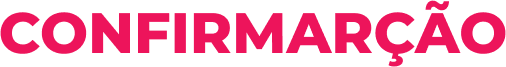
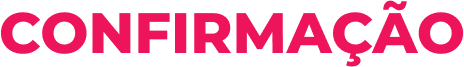
Atualizacao Tela de Confirmacao

diff --git a/project/interface.py b/project/interface.py
@@ -746,12 +746,12 @@ def telaLogarUsuario():
 
     # Inputs numéricos
     canvas1.create_window(120, 300, window=entry)
-    canvas1.create_window(323, 315, window=entry2)
-    canvas1.create_window(323, 268, window=entry3)
-    canvas1.create_window(525, 165, window=entry4)
-    canvas1.create_window(525, 200, window=entry5)
-    canvas1.create_window(525, 235, window=entry6)
-    canvas1.create_window(525, 300, window=entry7)
+    canvas1.create_window(323, 270, window=entry2)
+    canvas1.create_window(323, 330, window=entry3)
+    canvas1.create_window(525, 223, window=entry4)
+    canvas1.create_window(525, 254, window=entry5)
+    canvas1.create_window(525, 285, window=entry6)
+    canvas1.create_window(525, 340, window=entry7)
 
     # Botões de aumentar e diminuir o valor (Lab)
     increase_button = customtkinter.CTkButton(janelaLogarUsuario, text="▲", width=18, height=28, fg_color=cor_fundo,
@@ -772,14 +772,14 @@ def telaLogarUsuario():
     increase_button_machine = customtkinter.CTkButton(janelaLogarUsuario, text="▲", width=18, height=28, fg_color=cor_fundo,
                                                       hover_color=cor_fundo_escuro, border_color=cor_input_numerico,
                                                       border_width=-100)
-    canvas1.create_window(388, 200, window=increase_button_machine)
+    canvas1.create_window(370, 270, window=increase_button_machine)
     increase_button_machine.bind("<ButtonPress-1>", lambda event: start_increment(event, entry2))
     increase_button_machine.bind("<ButtonRelease-1>", stop_increment)
 
     decrease_button_machine = customtkinter.CTkButton(janelaLogarUsuario, text="▼", width=18, height=28, fg_color=cor_fundo,
                                                       hover_color=cor_fundo_escuro, border_color=cor_input_numerico,
                                                       border_width=-100)
-    canvas1.create_window(258, 200, window=decrease_button_machine)
+    canvas1.create_window(276, 270, window=decrease_button_machine)
     decrease_button_machine.bind("<ButtonPress-1>", lambda event: start_decrement(event, entry2))
     decrease_button_machine.bind("<ButtonRelease-1>", stop_decrement)
 
@@ -787,14 +787,14 @@ def telaLogarUsuario():
     increase_button_machine = customtkinter.CTkButton(janelaLogarUsuario, text="▲", width=18, height=28, fg_color=cor_fundo,
                                                       hover_color=cor_fundo_escuro, border_color=cor_input_numerico,
                                                       border_width=-100)
-    canvas1.create_window(370, 315, window=increase_button_machine)
+    canvas1.create_window(370, 330, window=increase_button_machine)
     increase_button_machine.bind("<ButtonPress-1>", lambda event: start_increment(event, entry3))
     increase_button_machine.bind("<ButtonRelease-1>", stop_increment)
 
     decrease_button_machine = customtkinter.CTkButton(janelaLogarUsuario, text="▼", width=18, height=28, fg_color=cor_fundo,
                                                       hover_color=cor_fundo_escuro, border_color=cor_input_numerico,
                                                       border_width=-100)
-    canvas1.create_window(276, 315, window=decrease_button_machine)
+    canvas1.create_window(276, 330, window=decrease_button_machine)
     decrease_button_machine.bind("<ButtonPress-1>", lambda event: start_decrement(event, entry3))
     decrease_button_machine.bind("<ButtonRelease-1>", stop_decrement)
 
@@ -803,14 +803,14 @@ def telaLogarUsuario():
     increase_button_machine = customtkinter.CTkButton(janelaLogarUsuario, text="▲", width=18, height=28, fg_color=cor_fundo,
                                                       hover_color=cor_fundo_escuro, border_color=cor_input_numerico,
                                                       border_width=-100)
-    canvas1.create_window(590, 165, window=increase_button_machine)
+    canvas1.create_window(572, 223, window=increase_button_machine)
     increase_button_machine.bind("<ButtonPress-1>", lambda event: start_increment(event, entry4))
     increase_button_machine.bind("<ButtonRelease-1>", stop_increment)
 
     decrease_button_machine = customtkinter.CTkButton(janelaLogarUsuario, text="▼", width=18, height=28, fg_color=cor_fundo,
                                                       hover_color=cor_fundo_escuro, border_color=cor_input_numerico,
                                                       border_width=-100)
-    canvas1.create_window(460, 165, window=decrease_button_machine)
+    canvas1.create_window(478, 223, window=decrease_button_machine)
     decrease_button_machine.bind("<ButtonPress-1>", lambda event: start_decrement(event, entry4))
     decrease_button_machine.bind("<ButtonRelease-1>", stop_decrement)
 
@@ -818,14 +818,14 @@ def telaLogarUsuario():
     increase_button_machine = customtkinter.CTkButton(janelaLogarUsuario, text="▲", width=18, height=28, fg_color=cor_fundo,
                                                       hover_color=cor_fundo_escuro, border_color=cor_input_numerico,
                                                       border_width=-100)
-    canvas1.create_window(590, 200, window=increase_button_machine)
+    canvas1.create_window(572, 254, window=increase_button_machine)
     increase_button_machine.bind("<ButtonPress-1>", lambda event: start_increment(event, entry5))
     increase_button_machine.bind("<ButtonRelease-1>", stop_increment)
 
     decrease_button_machine = customtkinter.CTkButton(janelaLogarUsuario, text="▼", width=18, height=28, fg_color=cor_fundo,
                                                       hover_color=cor_fundo_escuro, border_color=cor_input_numerico,
                                                       border_width=-100)
-    canvas1.create_window(460, 200, window=decrease_button_machine)
+    canvas1.create_window(478, 254, window=decrease_button_machine)
     decrease_button_machine.bind("<ButtonPress-1>", lambda event: start_decrement(event, entry5))
     decrease_button_machine.bind("<ButtonRelease-1>", stop_decrement)
 
@@ -833,14 +833,14 @@ def telaLogarUsuario():
     increase_button_machine = customtkinter.CTkButton(janelaLogarUsuario, text="▲", width=18, height=28, fg_color=cor_fundo,
                                                       hover_color=cor_fundo_escuro, border_color=cor_input_numerico,
                                                       border_width=-100)
-    canvas1.create_window(590, 235, window=increase_button_machine)
+    canvas1.create_window(572, 285, window=increase_button_machine)
     increase_button_machine.bind("<ButtonPress-1>", lambda event: start_increment(event, entry6))
     increase_button_machine.bind("<ButtonRelease-1>", stop_increment)
 
     decrease_button_machine = customtkinter.CTkButton(janelaLogarUsuario, text="▼", width=18, height=28, fg_color=cor_fundo,
                                                       hover_color=cor_fundo_escuro, border_color=cor_input_numerico,
                                                       border_width=-100)
-    canvas1.create_window(460, 235, window=decrease_button_machine)
+    canvas1.create_window(478, 285, window=decrease_button_machine)
     decrease_button_machine.bind("<ButtonPress-1>", lambda event: start_decrement(event, entry6))
     decrease_button_machine.bind("<ButtonRelease-1>", stop_decrement)
 
@@ -848,14 +848,14 @@ def telaLogarUsuario():
     increase_button_machine = customtkinter.CTkButton(janelaLogarUsuario, text="▲", width=18, height=28, fg_color=cor_fundo,
                                                       hover_color=cor_fundo_escuro, border_color=cor_input_numerico,
                                                       border_width=-100)
-    canvas1.create_window(590, 300, window=increase_button_machine)
+    canvas1.create_window(572, 340, window=increase_button_machine)
     increase_button_machine.bind("<ButtonPress-1>", lambda event: start_increment(event, entry7))
     increase_button_machine.bind("<ButtonRelease-1>", stop_increment)
 
     decrease_button_machine = customtkinter.CTkButton(janelaLogarUsuario, text="▼", width=18, height=28, fg_color=cor_fundo,
                                                       hover_color=cor_fundo_escuro, border_color=cor_input_numerico,
                                                       border_width=-100)
-    canvas1.create_window(460, 300, window=decrease_button_machine)
+    canvas1.create_window(478, 340, window=decrease_button_machine)
     decrease_button_machine.bind("<ButtonPress-1>", lambda event: start_decrement(event, entry7))
     decrease_button_machine.bind("<ButtonRelease-1>", stop_decrement)
 
@@ -874,9 +874,9 @@ def telaLogarUsuario():
                                                                                janelaLogarUsuario,
                                                                                telaLogarUsuario)])
     # Logar Máquina
-    canvas1.create_text(323, 140, text="Logar Máquina", fill="white", font=("Arial", 12, "bold"))
-    canvas1.create_text(323, 170, text="N° da Máquina", fill="white", font=("Arial", 10, "bold"))
-    canvas1.create_text(323, 235, text="Tempo (Segundos)", fill="white", font=("Arial", 10, "bold"))
+    canvas1.create_text(323, 215, text="Logar Máquina", fill="white", font=("Arial", 12, "bold"))
+    canvas1.create_text(323, 240, text="N° da Máquina", fill="white", font=("Arial", 10, "bold"))
+    canvas1.create_text(323, 300, text="Tempo (Segundos)", fill="white", font=("Arial", 10, "bold"))
 
     botao_logar_maquina = customtkinter.CTkButton(janelaLogarUsuario, text="Logar", width=120, height=30,
                                                       font=fontePequena, bg_color="transparent",
@@ -890,9 +890,9 @@ def telaLogarUsuario():
                                                                            telaLogarUsuario)])
 
     # Logar Personalizado
-    canvas1.create_text(525, 105, text="Personalizado", fill="white", font=("Arial", 12, "bold"))
-    canvas1.create_text(525, 133, text="Início, Fim e Passo", fill="white", font=("Arial", 10, "bold"))
-    canvas1.create_text(525, 267, text="Tempo (Segundos)", fill="white", font=("Arial", 10, "bold"))
+    canvas1.create_text(525, 170, text="Personalizado", fill="white", font=("Arial", 12, "bold"))
+    canvas1.create_text(525, 193, text="Início, Fim e Passo", fill="white", font=("Arial", 10, "bold"))
+    canvas1.create_text(525, 312, text="Tempo (Segundos)", fill="white", font=("Arial", 10, "bold"))
 
     # Botões
     botao_logar_personalizado = customtkinter.CTkButton(janelaLogarUsuario, text="Logar", width=120, height=30,
@@ -911,8 +911,8 @@ def telaLogarUsuario():
 
     # Posicionando os botões sobre o Canvas
     canvas1.create_window(120, 340, window=botao_logar_lab_inteiro)
-    canvas1.create_window(323, 355, window=botao_logar_maquina)
-    canvas1.create_window(525, 350, window=botao_logar_personalizado)
+    canvas1.create_window(323, 370, window=botao_logar_maquina)
+    canvas1.create_window(525, 375, window=botao_logar_personalizado)
 
     # Loop
     janelaLogarUsuario.mainloop()
@@ -1668,7 +1668,7 @@ def tela_confirmacao(nome_usuario, login_usuario, senha_usuario, senha_cmd_usuar
     screens.background(canvas_confirmacao, "assets/fundoFiap.png")
 
     # Texto de Confirmacao
-    confirmar = ImageTk.PhotoImage(Image.open("./assets/confirmacao.png").resize((319, 41)))
+    confirmar = ImageTk.PhotoImage(Image.open("./assets/confirmacao.png").resize((319, 44)))
     canvas_confirmacao.create_image(326, 110, image=confirmar)
 
     canvas_confirmacao.create_text(166, 155, text=f"Nome: {nome_usuario}", fill="white", font=("Arial", 18, "bold"),

diff --git a/autolab/screens/__init__.py b/autolab/screens/__init__.py
@@ -2,14 +2,11 @@ from tkinter import PhotoImage
 from customtkinter import CTk, CTkCanvas, CTkButton
 
 
-def centralizar(janela):
+def centralizar(janela, altura=400, largura=655):
     """
     --> Funcao para centralizar qualquer janela, baseado na altura e na largura da tela.
     :param: Janela que você deseja centralizar
     """
-    # Altura e Largura da Janela
-    altura = 400
-    largura = 655
 
     # Centralizar janela
     alturaTela = janela.winfo_screenheight()
